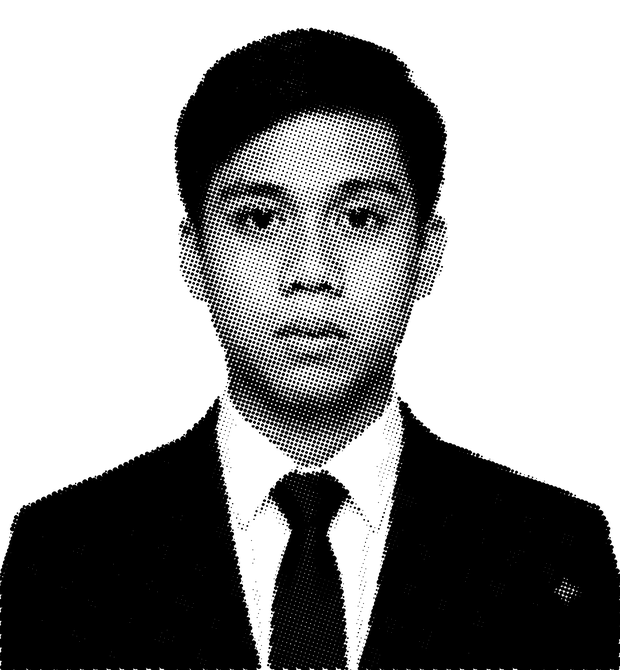
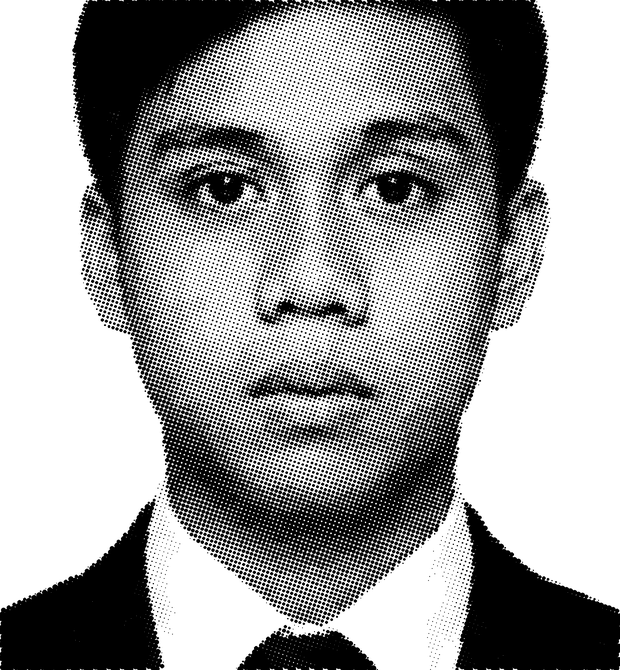
Align portrait poses: match center face scale to the directional poses

diff --git a/app/index.html b/app/index.html
@@ -132,11 +132,11 @@
         <div class="hero">
           <div class="portrait" aria-label="Jenver Mike Uddon">
             <div class="halftone" id="faceStack">
-              <img class="face" src="/face-center.png" alt="Jenver Mike Uddon" width="620" height="670" />
-              <img class="face face-dir" src="/face-up.png" data-dir="up" alt="" aria-hidden="true" />
-              <img class="face face-dir" src="/face-down.png" data-dir="down" alt="" aria-hidden="true" />
-              <img class="face face-dir" src="/face-left.png" data-dir="left" alt="" aria-hidden="true" />
-              <img class="face face-dir" src="/face-right.png" data-dir="right" alt="" aria-hidden="true" />
+              <img class="face" src="/face-center.png?v=2" alt="Jenver Mike Uddon" width="620" height="670" />
+              <img class="face face-dir" src="/face-up.png?v=2" data-dir="up" alt="" aria-hidden="true" />
+              <img class="face face-dir" src="/face-down.png?v=2" data-dir="down" alt="" aria-hidden="true" />
+              <img class="face face-dir" src="/face-left.png?v=2" data-dir="left" alt="" aria-hidden="true" />
+              <img class="face face-dir" src="/face-right.png?v=2" data-dir="right" alt="" aria-hidden="true" />
             </div>
           </div>
           <div class="hero-body">

diff --git a/index.html b/index.html
@@ -134,11 +134,11 @@
         <div class="hero">
           <div class="portrait" aria-label="Jenver Mike Uddon">
             <div class="halftone" id="faceStack">
-              <img class="face" src="/face-center.png" alt="Jenver Mike Uddon" width="620" height="670" />
-              <img class="face face-dir" src="/face-up.png" data-dir="up" alt="" aria-hidden="true" />
-              <img class="face face-dir" src="/face-down.png" data-dir="down" alt="" aria-hidden="true" />
-              <img class="face face-dir" src="/face-left.png" data-dir="left" alt="" aria-hidden="true" />
-              <img class="face face-dir" src="/face-right.png" data-dir="right" alt="" aria-hidden="true" />
+              <img class="face" src="/face-center.png?v=2" alt="Jenver Mike Uddon" width="620" height="670" />
+              <img class="face face-dir" src="/face-up.png?v=2" data-dir="up" alt="" aria-hidden="true" />
+              <img class="face face-dir" src="/face-down.png?v=2" data-dir="down" alt="" aria-hidden="true" />
+              <img class="face face-dir" src="/face-left.png?v=2" data-dir="left" alt="" aria-hidden="true" />
+              <img class="face face-dir" src="/face-right.png?v=2" data-dir="right" alt="" aria-hidden="true" />
             </div>
           </div>
           <div class="hero-body">
